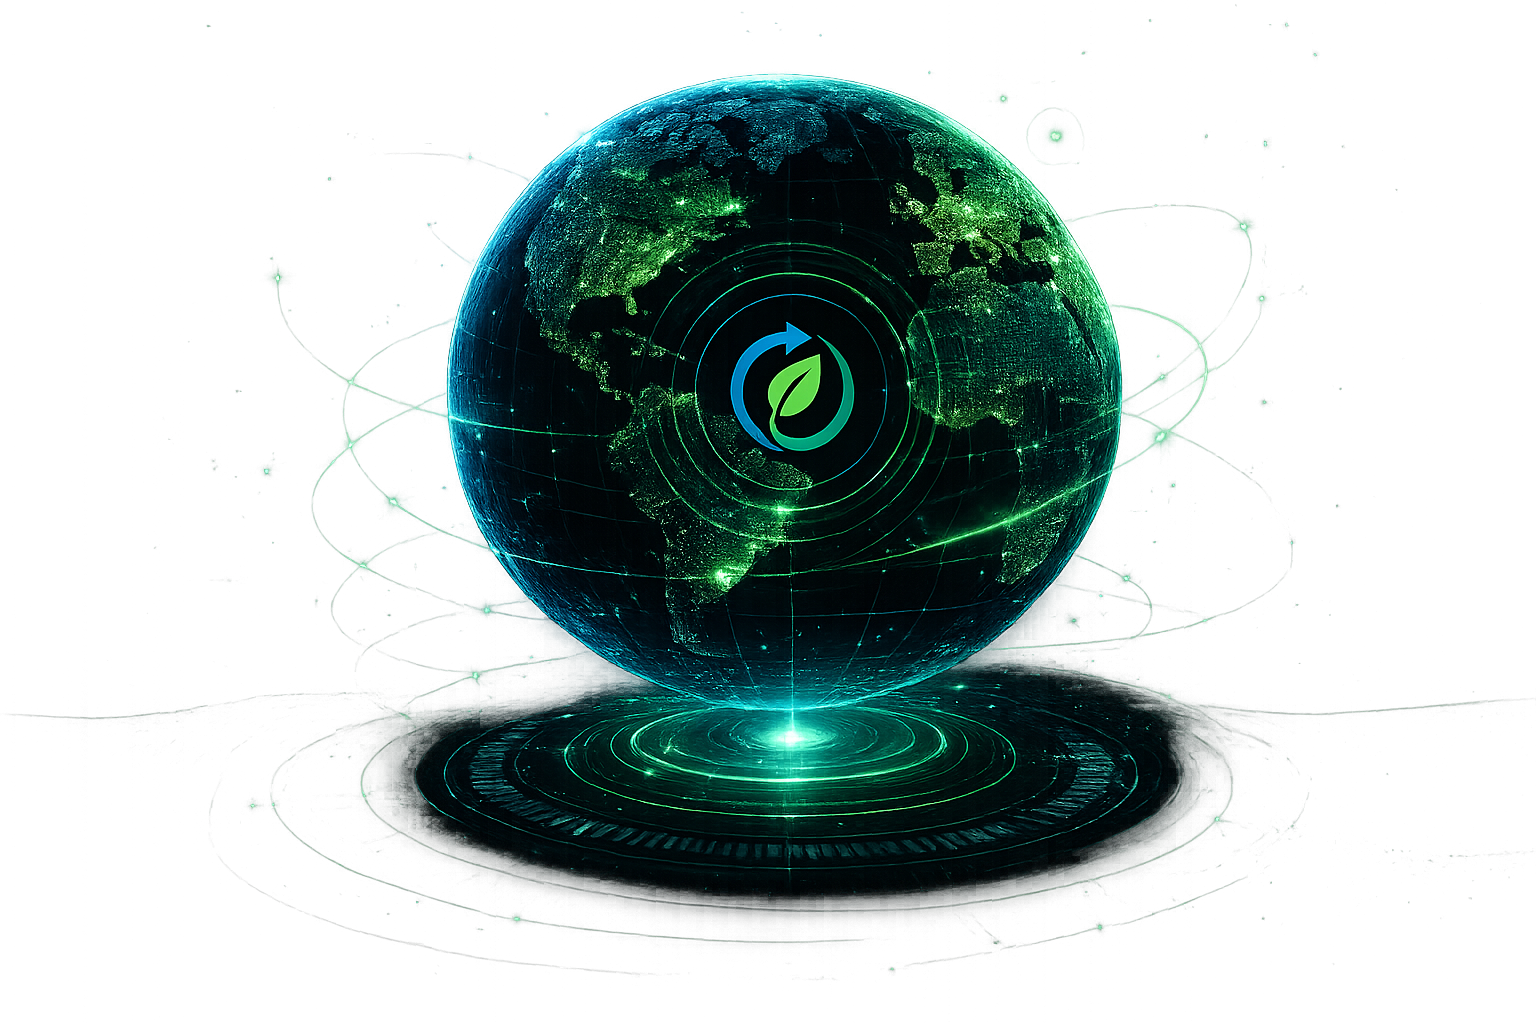
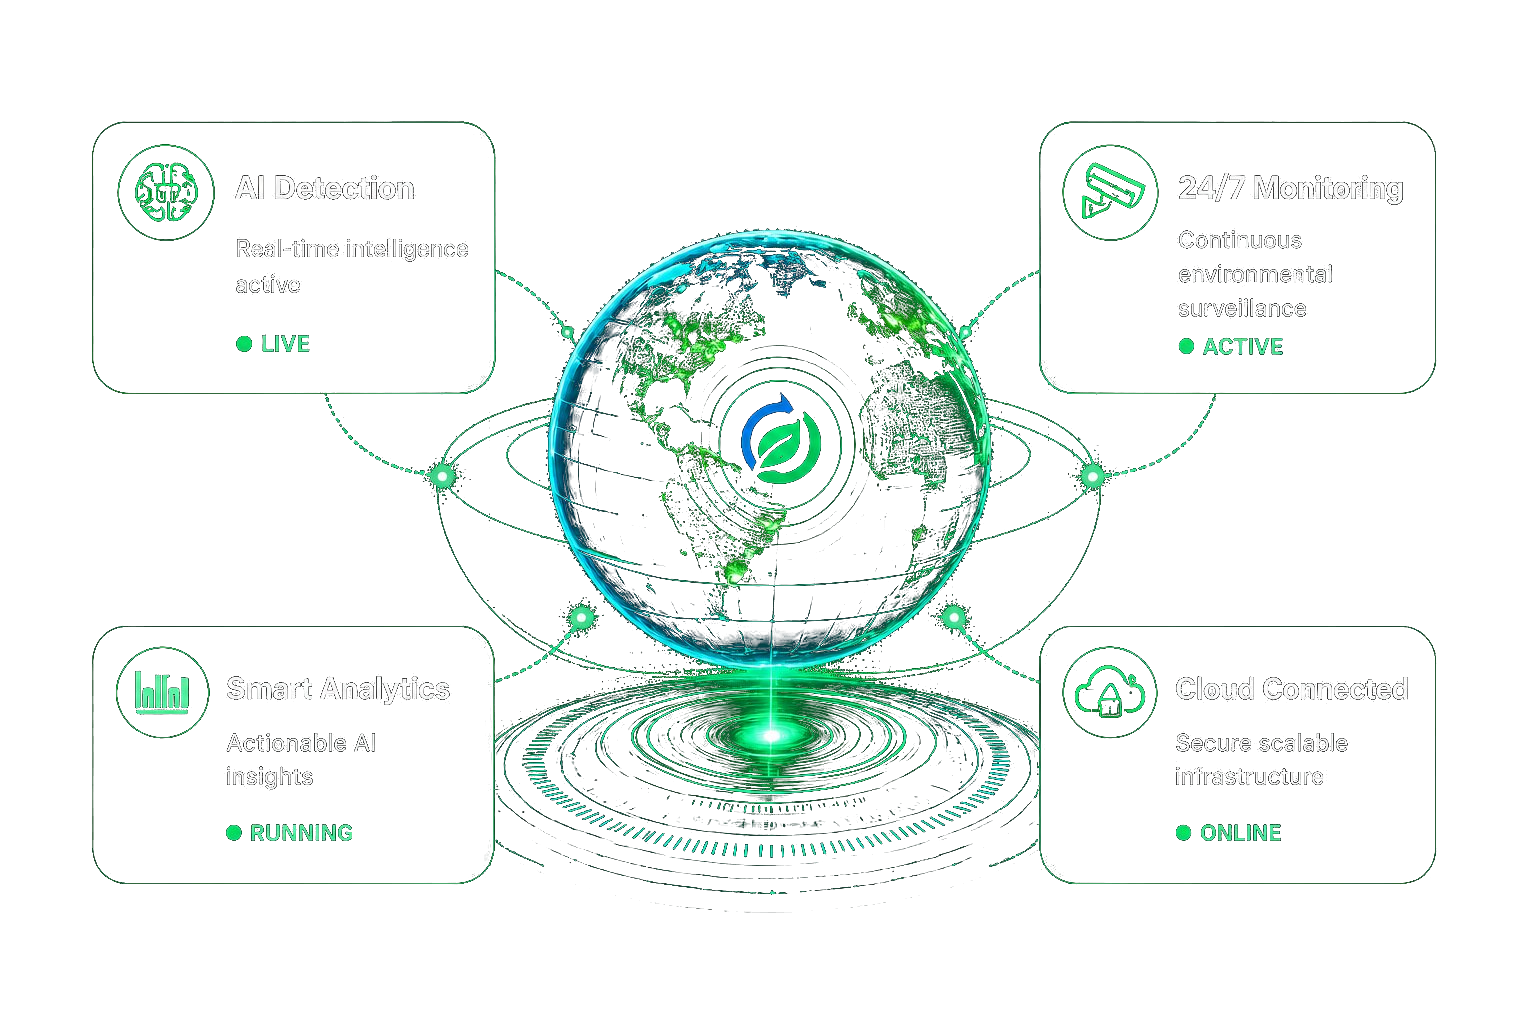
changes

diff --git a/index.html b/index.html
@@ -319,16 +319,23 @@ nav.scrolled {
     position: relative;
     width: 100%;
     height: 760px;
+
     display:flex;
     align-items:center;
     justify-content:center;
+
+    margin-top: -80px; /* moves entire globe section upward */
 }
 
 .hero-globe{
     position: relative;
     z-index:1;
-    width:520px;
-    height:520px;
+
+    width:620px;   /* increased size */
+    height:620px;
+
+    margin-top: -40px; /* pushes globe more upward */
+
     animation: globeFloat 6s ease-in-out infinite;
 }
 
@@ -336,6 +343,7 @@ nav.scrolled {
     width:100%;
     height:100%;
     object-fit:contain;
+
     filter:
         drop-shadow(0 0 50px rgba(34,198,105,0.35))
         drop-shadow(0 0 100px rgba(0,255,170,0.18));
@@ -432,9 +440,10 @@ nav.scrolled {
     }
 
     .hero-globe{
-        width:280px;
-        height:280px;
+        width:340px;
+        height:340px;
         order:2;
+        margin-top:-20px;
     }
 
     .floating-card{
@@ -1854,7 +1863,7 @@ footer {
       </p>
 
       <div class="hero-buttons">
-        <a href="#solutions" class="btn-primary">
+        <a href="#products" class="btn-primary">
           Explore Solutions →
         </a>
 
@@ -1889,41 +1898,9 @@ footer {
 
       <div class="hero-globe-container">
 
-        <!-- TOP LEFT -->
-        <div class="floating-card card-top-left">
-            <div class="card-icon">🧠</div>
-            <h4>AI Detection</h4>
-            <p>Real-time intelligence active</p>
-            <span>● LIVE</span>
-        </div>
-
-        <!-- TOP RIGHT -->
-        <div class="floating-card card-top-right">
-            <div class="card-icon">📹</div>
-            <h4>24/7 Monitoring</h4>
-            <p>Continuous environmental surveillance</p>
-            <span>● ACTIVE</span>
-        </div>
-
         <!-- CENTER GLOBE -->
         <div class="hero-globe" id="heroGlobe">
             <img src="globe.png" alt="AI Globe">
-        </div>
-
-        <!-- BOTTOM LEFT -->
-        <div class="floating-card card-bottom-left">
-            <div class="card-icon">📊</div>
-            <h4>Smart Analytics</h4>
-            <p>Actionable AI insights</p>
-            <span>● RUNNING</span>
-        </div>
-
-        <!-- BOTTOM RIGHT -->
-        <div class="floating-card card-bottom-right">
-            <div class="card-icon">☁️</div>
-            <h4>Cloud Connected</h4>
-            <p>Secure scalable infrastructure</p>
-            <span>● ONLINE</span>
         </div>
 
       </div>
@@ -2321,7 +2298,7 @@ footer {
         <li>Scalable for institutions</li>
       </ul>
 
-      <button type="button" class="pricing-cta pricing-cta-filled openQuoteBtn">Get Quote</button>
+      <button type="button" class="pricing-cta pricing-cta-filled openQuoteBtn">Get a Quote</button>
     </div>
 
     <div class="pricing-card">